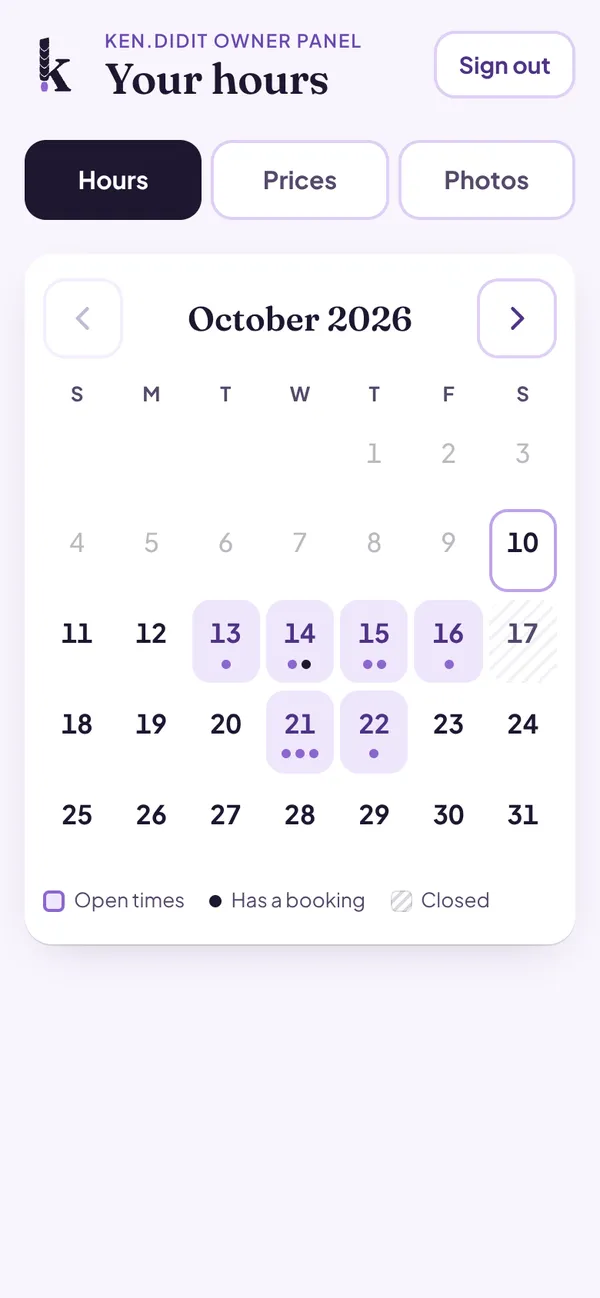
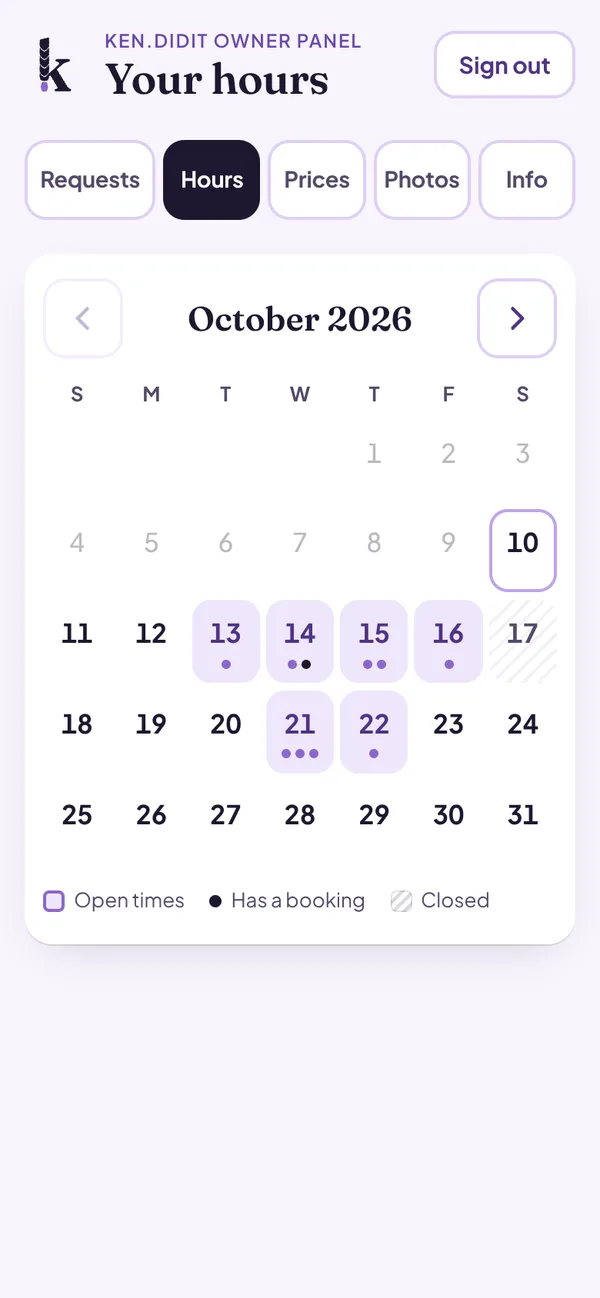
Owners: Kenya's panel now handles booking requests, Apple Calendar and FAQ
- Owners tab copy and five fresh panel screens: Requests, Hours, Prices, Photos, Info
- Kenya's Work card and the Owner panel feature list the new tools
- Planned next drops the two items now built and adds Waitlist and Reminder texts

Claude-Session: https://claude.ai/code/session_01KiXmUwvCZ5CSghSKNdmY1U

Changed region(s): [[0.3, 0.0924, 0.9, 0.1849], [0.03, 0.0924, 0.3, 0.1849]]

diff --git a/index.html b/index.html
@@ -238,7 +238,7 @@
             <p class="site-what">Kenya braids hair and books clients through Instagram. The site turns a long DM thread into one booking flow: pick a style, see the price and time, pick an open day, pay the deposit.</p>
             <div class="tabs" data-tabs>
               <div class="tab-list" role="tablist" aria-label="ken.didit details"><button type="button" role="tab" id="kendidit-t0" aria-controls="kendidit-p0" aria-selected="true">Features</button><button type="button" role="tab" id="kendidit-t1" aria-controls="kendidit-p1" aria-selected="false" tabindex="-1">For the owner</button><button type="button" role="tab" id="kendidit-t2" aria-controls="kendidit-p2" aria-selected="false" tabindex="-1">$15 plan</button></div>
-              <div class="tab-panel" role="tabpanel" id="kendidit-p0" aria-labelledby="kendidit-t0" tabindex="0"><ul class="site-feats"><li>An owner panel on her phone for her hours, prices and gallery photos.</li><li>A 3-step booker. Add-ons change both the price and the time estimate.</li><li>Deposit through Stripe (Apple Pay or card), then the request goes to Kenya by text or Instagram DM.</li><li>23 styles in 6 categories, each with its price and how long it takes.</li><li>A booking calendar that reads her owner panel, with a backup schedule built in.</li><li>A live slip with the total, the $15 deposit and the balance due.</li><li>After sending, the client gets a calendar file and a Google Calendar link.</li><li>A gallery she updates herself, where "Book this style" picks the service, and a plaited-k logo.</li></ul></div><div class="tab-panel" role="tabpanel" id="kendidit-p1" aria-labelledby="kendidit-t1" tabindex="0" hidden><p><b>She runs:</b> her open days and times, her prices and her gallery photos, from an owner panel on her phone. Payments sit in her Stripe dashboard.</p><p><b>New clients:</b> people book from the link in her bio at any hour, and they see the price and time before they ask.</p><p><b>Time saved:</b> every request arrives with the style, add-ons, date, time and deposit status, so no back-and-forth to collect details.</p></div><div class="tab-panel" role="tabpanel" id="kendidit-p2" aria-labelledby="kendidit-t2" tabindex="0" hidden><p>I keep her panel, booking flow and deposit link working, and make any bigger change she asks for, like a new style or page.</p><p><b>Recent updates:</b> an owner panel for her hours, prices and photos, every photo upscaled and shown uncropped, a saved-progress booking flow and a new logo.</p></div>
+              <div class="tab-panel" role="tabpanel" id="kendidit-p0" aria-labelledby="kendidit-t0" tabindex="0"><ul class="site-feats"><li>An owner panel on her phone for booking requests, hours, prices, photos, policies and FAQ.</li><li>One tap adds a confirmed booking to her Apple Calendar, with a reminder the day before to send the address.</li><li>A 3-step booker. Add-ons change both the price and the time estimate.</li><li>Deposit through Stripe (Apple Pay or card), then the request goes to Kenya by text or Instagram DM.</li><li>23 styles in 6 categories, each with its price and how long it takes.</li><li>A booking calendar that reads her owner panel, with a backup schedule built in.</li><li>A live slip with the total, the $15 deposit and the balance due.</li><li>After sending, the client gets a calendar file and a Google Calendar link.</li><li>A gallery she updates herself, where "Book this style" picks the service, and a plaited-k logo.</li></ul></div><div class="tab-panel" role="tabpanel" id="kendidit-p1" aria-labelledby="kendidit-t1" tabindex="0" hidden><p><b>She runs:</b> her booking requests, open days and times, prices, gallery photos, policies and FAQ, from an owner panel on her phone. Payments sit in her Stripe dashboard.</p><p><b>New clients:</b> people book from the link in her bio at any hour, and they see the price and time before they ask.</p><p><b>Time saved:</b> every request arrives with the style, add-ons, date, time and deposit status, so no back-and-forth to collect details.</p></div><div class="tab-panel" role="tabpanel" id="kendidit-p2" aria-labelledby="kendidit-t2" tabindex="0" hidden><p>I keep her panel, booking flow and deposit link working, and make any bigger change she asks for, like a new style or page.</p><p><b>Recent updates:</b> booking requests in her panel with an Apple Calendar button, editable policies and FAQ, an owner panel for her hours, prices and photos, every photo upscaled and shown uncropped, a saved-progress booking flow and a new logo.</p></div>
             </div>
           </div>
         </article>
@@ -359,7 +359,7 @@
               <p class="cap-word" aria-hidden="true">Booked</p>
               <ul class="cap-list">
                 <li><b>Booking calendars</b><span>Clients pick a service, a day and a time, and the request reaches you ready to confirm.</span></li>
-                <li><b>Owner panel</b><span>Change your hours, prices and photos from your phone, and the site updates when you save.</span></li>
+                <li><b>Owner panel</b><span>Confirm booking requests and change your hours, prices, photos and FAQ from your phone. The site updates when you save.</span></li>
                 <li><b>Price lists</b><span>Every service with its price and time, so people show up knowing the cost.</span></li>
                 <li><b>Contact forms</b><span>Questions and tour requests arrive with the details filled in, plus spam protection.</span></li>
               </ul>
@@ -408,8 +408,8 @@
           </div>
           <div class="tab-panel own-panel own-kd" role="tabpanel" id="own-p0" aria-labelledby="own-t0" tabindex="0">
             <div class="own-text">
-              <h3>Kenya runs her hours, prices and photos from her phone</h3>
-              <p>She signs in with her phone number and a password. She taps a day to open or close it, adds times, marks a time booked and copies a week forward. Prices and gallery photos have their own tabs. Her site updates the moment a change saves, and only her account can change anything.</p>
+              <h3>Kenya runs her bookings, hours, prices and photos from her phone</h3>
+              <p>She signs in with her phone number and a password. Booking requests from her site land in the panel. One tap confirms a request and books that time on her site, and the next tap adds it to her Apple Calendar. She also opens and closes days, edits prices and photos, and rewrites her policies and FAQ. Her site updates the moment a change saves, and only her account can change anything.</p>
             </div>
             <!-- Working demo of the idea, wired to nothing. Her real panel is in the screens below. -->
             <figure class="od" aria-labelledby="od-cap">
@@ -437,11 +437,13 @@
               <figcaption id="od-cap">Demo. Tap a day to see the idea. It is not her live schedule.</figcaption>
             </figure>
             <div class="od-screens">
-              <p class="od-screens-k">Her real panel, shown with example hours</p>
+              <p class="od-screens-k">Her real panel, shown with example data</p>
               <ul>
-                <li><img src="img/owner/panel-hours-300.webp" srcset="img/owner/panel-hours-300.webp 300w, img/owner/panel-hours-600.webp 600w" sizes="(max-width: 600px) 60vw, 220px" width="300" height="649" loading="lazy" decoding="async" alt="Kenya's panel, Hours tab: a month calendar with open days marked in lilac"><span>Hours</span></li>
-                <li><img src="img/owner/panel-prices-300.webp" srcset="img/owner/panel-prices-300.webp 300w, img/owner/panel-prices-600.webp 600w" sizes="(max-width: 600px) 60vw, 220px" width="300" height="649" loading="lazy" decoding="async" alt="Kenya's panel, Prices tab: knotless options with prices and times"><span>Prices</span></li>
-                <li><img src="img/owner/panel-photos-300.webp" srcset="img/owner/panel-photos-300.webp 300w, img/owner/panel-photos-600.webp 600w" sizes="(max-width: 600px) 60vw, 220px" width="300" height="649" loading="lazy" decoding="async" alt="Kenya's panel, Photos tab: an Add photos button above her gallery"><span>Photos</span></li>
+                <li><img src="img/owner/panel-requests-300.webp" srcset="img/owner/panel-requests-300.webp 300w, img/owner/panel-requests-600.webp 600w" sizes="(max-width: 600px) 60vw, 190px" width="300" height="649" loading="lazy" decoding="async" alt="Kenya's panel, Requests tab: a confirmed example booking with an Add to Apple Calendar button"><span>Requests</span></li>
+                <li><img src="img/owner/panel-hours-300.webp" srcset="img/owner/panel-hours-300.webp 300w, img/owner/panel-hours-600.webp 600w" sizes="(max-width: 600px) 60vw, 190px" width="300" height="649" loading="lazy" decoding="async" alt="Kenya's panel, Hours tab: a month calendar with open days marked in lilac"><span>Hours</span></li>
+                <li><img src="img/owner/panel-prices-300.webp" srcset="img/owner/panel-prices-300.webp 300w, img/owner/panel-prices-600.webp 600w" sizes="(max-width: 600px) 60vw, 190px" width="300" height="649" loading="lazy" decoding="async" alt="Kenya's panel, Prices tab: knotless options with prices and times"><span>Prices</span></li>
+                <li><img src="img/owner/panel-photos-300.webp" srcset="img/owner/panel-photos-300.webp 300w, img/owner/panel-photos-600.webp 600w" sizes="(max-width: 600px) 60vw, 190px" width="300" height="649" loading="lazy" decoding="async" alt="Kenya's panel, Photos tab: an Add photos button above her gallery"><span>Photos</span></li>
+                <li><img src="img/owner/panel-info-300.webp" srcset="img/owner/panel-info-300.webp 300w, img/owner/panel-info-600.webp 600w" sizes="(max-width: 600px) 60vw, 190px" width="300" height="649" loading="lazy" decoding="async" alt="Kenya's panel, Info tab: her policy cards, each one editable"><span>Info</span></li>
               </ul>
             </div>
           </div>
@@ -463,11 +465,11 @@
               <li><b>Sold-out toggles</b>Mark a food item sold out for the day with one tap.</li>
               <li><b>Specials and events</b>This week's specials or upcoming events.</li>
               <li><b>Lead inbox</b>Form messages from your site, kept in the panel.</li>
-              <li><b>Booking requests</b>Requests from your site land in the panel, marked new, confirmed or done.</li>
               <li><b>Reviews you choose</b>Paste in a real review from a client and pick which ones show on your site.</li>
-              <li><b>FAQ and policies</b>Edit your questions, deposit rules and late policy without waiting on me.</li>
               <li><b>Team members</b>Add a second stylist or cook with their own hours, services and photos.</li>
               <li><b>Visit stats</b>See how many people visited this week and how many tapped Book or Order.</li>
+              <li><b>Waitlist</b>Clients join a list for a full day, and the panel shows who to text when a time opens.</li>
+              <li><b>Reminder texts</b>An automatic text to each client the day before a confirmed booking.</li>
             </ul>
           </div>
         </div>

diff --git a/style.css b/style.css
@@ -595,7 +595,7 @@ html.lenis, html.lenis body { height: auto; }
 .rm .od-cal i.pop, .rm .od.saved .od-link::before { animation: none; }
 .od-screens { grid-column: 1 / -1; margin-top: clamp(8px, 2vw, 24px); }
 .od-screens-k { font-size: 0.875rem; color: var(--muted); margin-bottom: 12px; }
-.od-screens ul { list-style: none; display: grid; grid-template-columns: repeat(3, minmax(0, 220px)); gap: clamp(14px, 2.4vw, 32px); }
+.od-screens ul { list-style: none; display: grid; grid-template-columns: repeat(5, minmax(0, 190px)); gap: clamp(12px, 2vw, 28px); }
 .od-screens li { display: flex; flex-direction: column; gap: 8px; }
 .od-screens img { width: 100%; height: auto; border: 6px solid var(--ink); border-radius: 22px; background: var(--ink); }
 .od-screens span { font-size: 0.875rem; font-weight: 650; text-align: center; }
